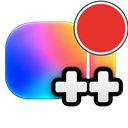
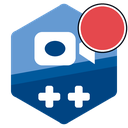
changed design to be more C++ oriented

diff --git a/style.css b/style.css
@@ -1,35 +1,37 @@
-:root{color-scheme:dark;--bg:#0b0b0f;--surf:#15151c;--surf2:#20202a;--fg:#f5f5f9;--mut:#a4a4b4;--blue:#3f5bff;--purple:#8a4dff;--pink:#e0307a;--orange:#ff9d3d;--green:#22c7a0}
+:root{color-scheme:dark;--bg:#06101c;--surf:#0c1b2e;--surf2:#14293f;--fg:#eef4fb;--mut:#8fa7c2;--c1:#659AD2;--c2:#00599C;--c3:#004482;--acc:#2b78c9;--red:#e5484d;--orange:#ff9d3d}
 [hidden]{display:none!important}
 *{box-sizing:border-box}
-body{margin:0;color:var(--fg);font:15px/1.5 system-ui,sans-serif;background:radial-gradient(900px 520px at 90% -10%,rgba(138,77,255,.22),transparent 60%),radial-gradient(700px 480px at -10% 105%,rgba(224,48,122,.14),transparent 60%),var(--bg);background-attachment:fixed}
+body{margin:0;color:var(--fg);font:15px/1.5 system-ui,sans-serif;background:radial-gradient(900px 520px at 90% -10%,rgba(43,120,201,.28),transparent 60%),radial-gradient(700px 480px at -10% 105%,rgba(0,89,156,.22),transparent 60%),var(--bg);background-attachment:fixed}
 main{max-width:860px;margin:0 auto;padding:32px 20px 70px}
 main.layout{max-width:1200px;padding:32px 28px 70px;display:grid;grid-template-columns:minmax(0,1fr) 380px;gap:48px}
 aside{position:sticky;top:24px;align-self:start;max-height:calc(100vh - 48px);overflow:auto;padding-right:4px}
 @media(max-width:900px){main.layout{grid-template-columns:1fr}aside{position:static;max-height:none}}
-h1{font-size:28px;margin:0 0 20px;letter-spacing:-.02em;background:linear-gradient(90deg,#6d8bff,#b07cff 50%,#ff6fae);-webkit-background-clip:text;background-clip:text;color:transparent}
-h2{font-size:13px;margin:28px 0 10px;text-transform:uppercase;letter-spacing:.08em;color:var(--mut)}
+h1{font-size:28px;margin:0 0 20px;letter-spacing:-.02em;background:linear-gradient(90deg,#a9cbf0,#659AD2 55%,#2b78c9);-webkit-background-clip:text;background-clip:text;color:transparent}
+h2{font:600 14px ui-monospace,SFMono-Regular,Menlo,Consolas,monospace;margin:28px 0 10px;color:var(--mut)}
+h2::before{content:"// ";color:var(--c1)}
+h1 img{width:36px;height:36px;vertical-align:-8px;margin-right:12px}
 aside h2{margin-top:6px}
 fieldset{border:0;margin:0;padding:0}
 label{display:block;margin:7px 0}
 a{color:var(--fg);text-underline-offset:3px}
-input[type=checkbox]{accent-color:var(--purple);width:16px;height:16px;vertical-align:-3px;margin-right:8px}
-input[type=range]{accent-color:var(--purple)}
+input[type=checkbox]{accent-color:var(--c1);width:16px;height:16px;vertical-align:-3px;margin-right:8px}
+input[type=range]{accent-color:var(--c1)}
 .muted{font-size:13px;color:var(--mut)}
 button,select{font:inherit;font-weight:600;border:0;border-radius:12px;padding:9px 16px;background:var(--surf2);color:var(--fg);cursor:pointer;transition:filter .15s,transform .08s}
 button:hover:not(:disabled){filter:brightness(1.15)}
 button:active:not(:disabled){transform:translateY(1px)}
 button:disabled{opacity:.45;cursor:not-allowed}
 :focus-visible{outline:3px solid #fff;outline-offset:2px}
-.primary{background:linear-gradient(135deg,#3f5bff,#8a4dff 50%,#e0307a);color:#fff;font-weight:700;padding:12px 26px;border-radius:14px;box-shadow:0 6px 20px rgba(138,77,255,.35)}
-.b-blue{background:var(--blue);color:#fff}
-.b-purple{background:var(--purple);color:#fff}
-.b-pink{background:var(--pink);color:#fff}
+.primary{background:linear-gradient(135deg,#2b78c9,#00599C 55%,#004482);color:#fff;font-weight:700;padding:12px 26px;border-radius:14px;box-shadow:0 6px 20px rgba(43,120,201,.35)}
+.b-blue{background:var(--acc);color:#fff}
+.b-purple{background:var(--c2);color:#fff;box-shadow:inset 0 0 0 1px rgba(101,154,210,.55)}
+.b-pink{background:var(--red);color:#fff}
 .b-orange{background:var(--orange);color:#1a1000}
-.b-green{background:var(--green);color:#00241c}
+.b-green{background:var(--c1);color:#04162a}
 .eq{display:grid;grid-template-columns:repeat(3,1fr);gap:14px;margin:12px 0}.eq input{width:100%}
 .meter{height:10px;background:var(--surf2);border-radius:6px;overflow:hidden;margin:14px 0 6px}
-.meter b{display:block;height:100%;width:0;background:var(--green)}
-.meter b.clip{background:var(--pink)}
+.meter b{display:block;height:100%;width:0;background:var(--c1)}
+.meter b.clip{background:var(--red)}
 #big{font:700 64px/1.1 ui-monospace,monospace;font-variant-numeric:tabular-nums;margin:20px 0 2px}
 .tools{display:flex;gap:8px;flex-wrap:wrap;align-items:center;margin:10px 0}
 .row{display:flex;justify-content:space-between;align-items:center;gap:12px;padding:12px 16px;background:var(--surf);border-radius:14px;margin:10px 0}
@@ -43,12 +45,13 @@ video{width:100%;border-radius:14px;background:#000}
 dialog{background:var(--surf);color:var(--fg);border:0;border-radius:20px;padding:20px;width:min(920px,92vw)}
 dialog::backdrop{background:rgba(0,0,0,.82)}
 dialog .vh{display:flex;justify-content:space-between;align-items:center;gap:12px;margin-bottom:12px}
-dialog h2{margin:0;font-size:16px;text-transform:none;letter-spacing:0;color:var(--fg)}
+dialog h2{margin:0;font:600 16px system-ui,sans-serif;color:var(--fg)}
+dialog h2::before{content:none}
 #tl{position:relative;height:34px;border-radius:10px;margin:10px 0 6px;cursor:pointer;overflow:hidden;background:var(--surf2)}
 #tl i{position:absolute;top:0;bottom:0}
-#tl .trim{background:rgba(63,91,255,.55)}
-#tl .mute{background:repeating-linear-gradient(45deg,var(--pink) 0 4px,rgba(224,48,122,.25) 4px 8px)}
-#tl .mute.vo{background:var(--green)}
+#tl .trim{background:rgba(101,154,210,.45)}
+#tl .mute{background:repeating-linear-gradient(45deg,var(--red) 0 4px,rgba(229,72,77,.25) 4px 8px)}
+#tl .mute.vo{background:var(--c1)}
 #tl .head{width:3px;background:#fff;box-shadow:0 0 0 1px rgba(0,0,0,.6)}
 .player{display:flex;align-items:center;gap:10px;margin:6px 0}
 .player .sp{flex:1}.player input{width:120px}

diff --git a/overlay.js b/overlay.js
@@ -10,7 +10,7 @@
     min: '<svg viewBox="0 0 24 24"><path d="M11 6L5 12l6 6V6zM19 6l-6 6 6 6V6z"/></svg>'
   };
   const CSS = `
-  .bar{position:fixed;left:20px;bottom:20px;z-index:2147483647;display:flex;flex-direction:column;align-items:center;gap:2px;padding:8px;background:#000;color:#fff;border-radius:22px;box-shadow:0 0 0 1px rgba(255,255,255,.35),0 8px 24px rgba(0,0,0,.45);font:600 13px/1 system-ui,sans-serif;user-select:none;touch-action:none;cursor:grab}
+  .bar{position:fixed;left:20px;bottom:20px;z-index:2147483647;display:flex;flex-direction:column;align-items:center;gap:2px;padding:8px;background:#06101c;color:#fff;border-radius:22px;box-shadow:0 0 0 1px rgba(101,154,210,.55),0 8px 24px rgba(0,0,0,.45);font:600 13px/1 system-ui,sans-serif;user-select:none;touch-action:none;cursor:grab}
   .t{display:flex;align-items:center;gap:5px;margin:7px 0 5px;font-variant-numeric:tabular-nums}
   .dot{width:7px;height:7px;border-radius:50%;background:#fff;animation:b 1.2s infinite}
   .paused .dot{background:none;border:1.5px solid #fff;animation:none}
@@ -19,10 +19,10 @@
   .grp{display:flex;flex-direction:column;gap:2px}
   hr{width:24px;border:0;border-top:1.5px solid #fff;margin:5px 0}
   button{all:unset;box-sizing:border-box;width:40px;height:40px;display:grid;place-items:center;border-radius:12px;cursor:pointer;color:#fff;font:600 10px system-ui,sans-serif;overflow:hidden}
-  button:hover,button.armed{background:#fff;color:#000}
+  button:hover,button.armed{background:#659AD2;color:#04162a}
   button:focus-visible{outline:2px solid #fff;outline-offset:1px}
-  button.stop{width:44px;height:44px;background:#fff;color:#000}
-  button.stop:hover{background:#000;color:#fff;box-shadow:inset 0 0 0 2px #fff}
+  button.stop{width:44px;height:44px;background:#659AD2;color:#04162a}
+  button.stop:hover{background:#06101c;color:#659AD2;box-shadow:inset 0 0 0 2px #659AD2}
   svg{width:20px;height:20px;fill:currentColor}
   .min .grp,.min hr{display:none}.min [data-c=min] svg{transform:rotate(180deg)}`;
   const fmt = t => { t = Math.floor(t); const h = Math.floor(t / 3600), m = Math.floor(t % 3600 / 60), s = t % 60; return (h ? h + ':' + String(m).padStart(2, '0') : m) + ':' + String(s).padStart(2, '0'); };

diff --git a/editor.html b/editor.html
@@ -8,7 +8,7 @@
   <section id="editor" hidden>
     <video id="v"></video>
     <div id="tl"></div>
-    <p class="muted">Blue = kept · pink stripes = your voice muted · green = voiceover recorded</p>
+    <p class="muted">Blue = kept · red stripes = your voice muted · light blue = voiceover recorded</p>
     <div class="player">
       <button id="play" class="b-purple" aria-label="Play"></button><span id="clock" class="muted"></span><span class="sp"></span>
       <button id="vol" class="b-blue" aria-label="Mute or unmute"></button><input type="range" id="volume" min="0" max="1" step="0.05" value="1" aria-label="Volume">

diff --git a/recorder.html b/recorder.html
@@ -3,7 +3,7 @@
 <link rel="stylesheet" href="style.css">
 <main class="layout">
   <div>
-    <h1>Screen Recorder ++</h1>
+    <h1><img src="icons/icon-48.png" alt="">Screen Recorder ++</h1>
     <fieldset id="setup">
       <label><input type="checkbox" id="mic" checked> Microphone</label>
       <label><input type="checkbox" id="ns" checked> Reduce background noise</label>
